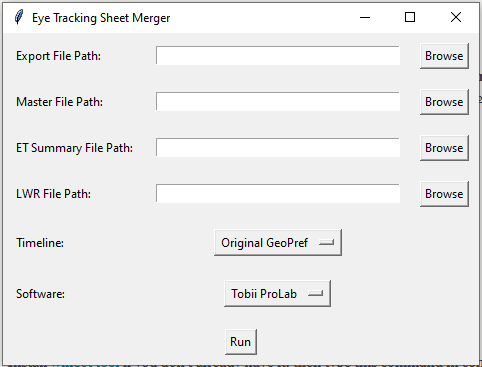
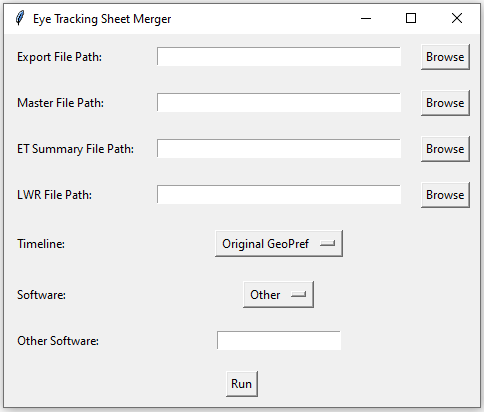
updated ets GUI + tested

diff --git a/modules/etsGUI.py b/modules/etsGUI.py
@@ -3,6 +3,8 @@ from tkinter import filedialog, messagebox
 from modules.ets import EyeTrackingSheet
 
 class etsGUI:
+
+
     def __init__(self, master):
         self.master = master
         self.master.title("Eye Tracking Sheet Merger")
@@ -61,8 +63,23 @@ class etsGUI:
         self.software_dropdown = tk.OptionMenu(master, self.software_var, *self.software_options)
         self.software_dropdown.grid(row=5, column=1, padx=10, pady=10)
 
+        self.other_software_label = tk.Label(master, text="Other Software:")
+        self.other_software_label.grid(row=6, column=0, sticky="w", padx=10, pady=10)
+        
+        self.other_software_entry = tk.Entry(master, width=20)
+        self.other_software_entry.grid(row=6, column=1, padx=10, pady=10)
+        self.other_software_entry.grid_remove()
+        
+        self.software_var.trace("w", self.show_hide_other_software_entry)
+
         self.run_button = tk.Button(master, text="Run", command=self.run_script)
-        self.run_button.grid(row=7, column=0, columnspan=3, pady=10)
+        self.run_button.grid(row=8, column=0, columnspan=3, pady=10)
+    
+    def show_hide_other_software_entry(self, *args):
+        if self.software_var.get() == "Other":
+            self.other_software_entry.grid()
+        else:
+            self.other_software_entry.grid_remove()
 
     def browse_tsv(self):
         file_path = filedialog.askopenfilename(filetypes=[("TSV files", "*.tsv")])
@@ -89,6 +106,7 @@ class etsGUI:
         master_fp = self.master_fp_entry.get()
         et_summary_fp = self.sum_fp_entry.get()
         lwr_fp = self.lwr_fp_entry.get()
+
         if self.timeline_var.get() == "Original GeoPref":
                 timeline = 'Geo'
         elif self.timeline_var.get() ==  "Complex Social GeoPref":
@@ -99,7 +117,11 @@ class etsGUI:
                 timeline = 'Traffic'
         elif self.timeline_var.get() == "Motherese LK vs Techno":
                 timeline = 'Techno'
-        software = self.software_var.get()
+
+        if self.software_var.get() != 'Other':
+            software = self.software_var.get()
+        else:
+            software = self.other_software_entry.get()
 
         if file_path and master_fp and et_summary_fp and timeline and software:
             try:
